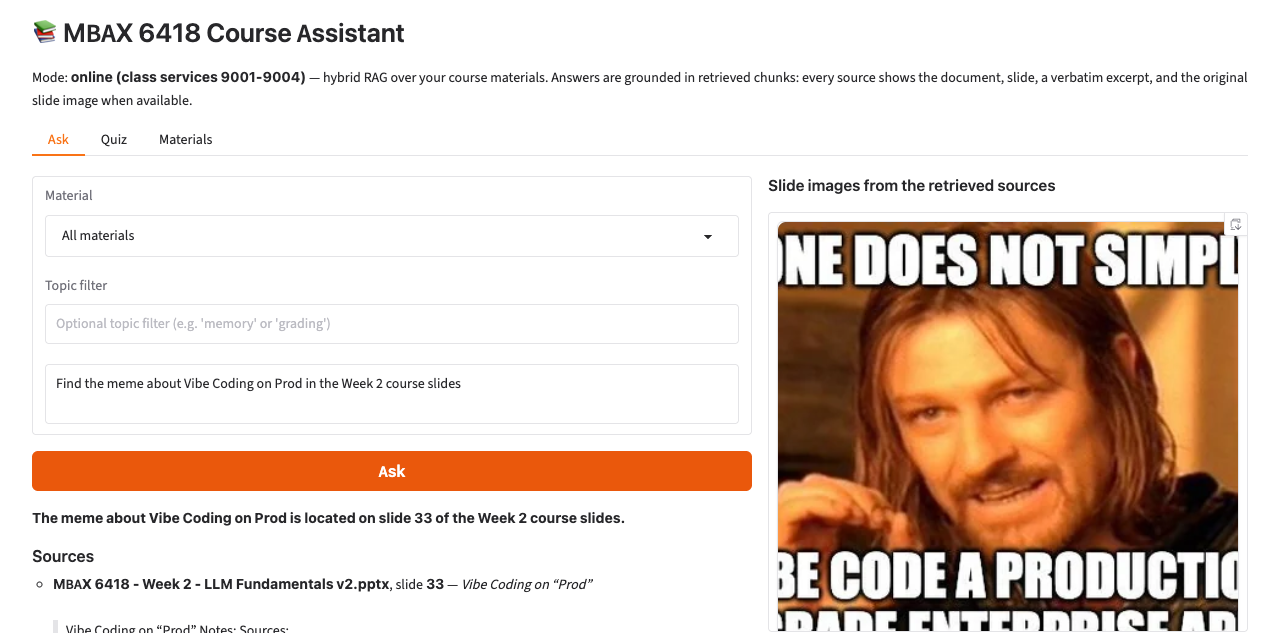
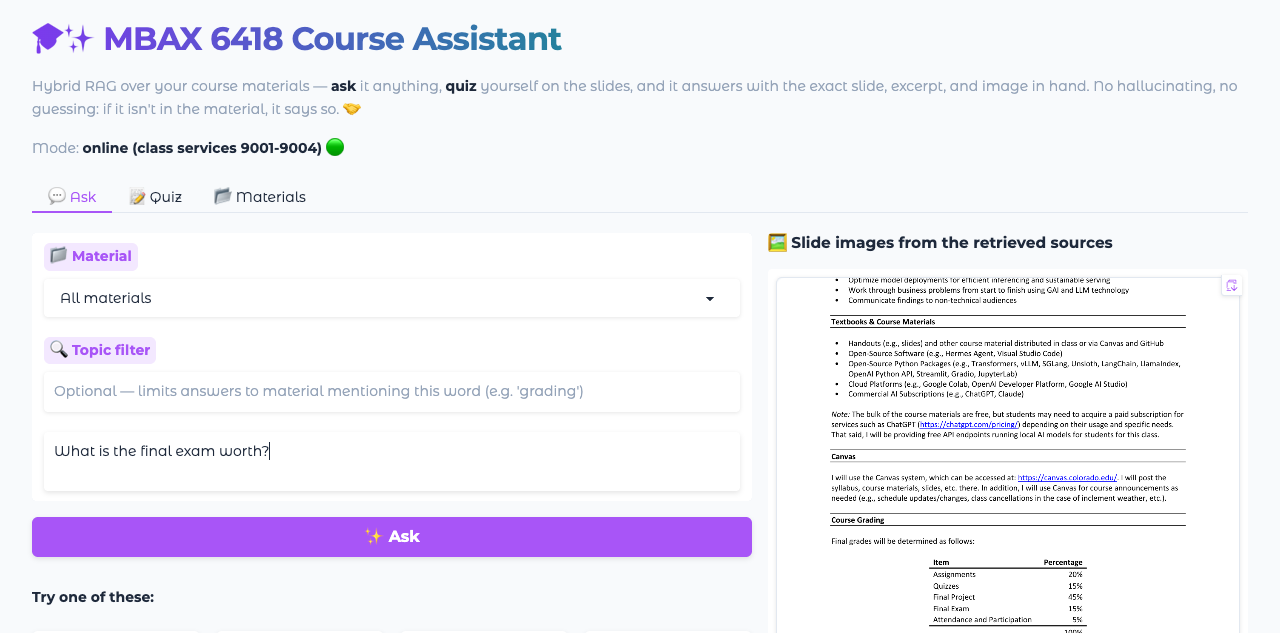
🎨✨ fun UI + robust quiz generation
- Themed app: purple/teal Soft theme, gradient hero, sample-question
  chips, playful tab copy, footer echoing the hybrid-RAG stack
- Quiz: fresh evidence window per retry, paraphrase-tolerant grounding
  (explanation-anchored), title/transition slides excluded from the
  pool, 4 attempts — All-materials quizzes now reliably hit the count
- Screenshots re-captured against the new look

diff --git a/app.py b/app.py
@@ -25,6 +25,62 @@ from course_assistant.service import ALL_SCOPE, CourseAssistant  # noqa: E402
 MAX_QUIZ = 5
 LETTERS = "ABCDEFGH"
 
+FUN_THEME = gr.themes.Soft(
+    primary_hue=gr.themes.colors.purple,
+    secondary_hue=gr.themes.colors.teal,
+    neutral_hue=gr.themes.colors.slate,
+    radius_size=gr.themes.sizes.radius_lg,
+)
+
+FUN_CSS = """
+/* hero title — gradient "LLM" treatment */
+#hero h1 {
+  font-size: 2rem !important;
+  font-weight: 800 !important;
+  letter-spacing: -0.02em;
+  background: linear-gradient(90deg, #7c3aed 0%, #0d9488 55%, #f59e0b 100%);
+  -webkit-background-clip: text;
+  background-clip: text;
+  color: transparent;
+  margin-bottom: 0.2rem;
+}
+#hero { padding: 0.1rem 0 0.6rem; }
+#hero p { color: var(--body-text-color-subdued); }
+/* sample-question chips */
+.chip-row { margin-top: 0.4rem; }
+.chip-row + footer { display: block !important; }
+#app-footer {
+  margin-top: 1.4rem; padding-top: 0.8rem;
+  border-top: 1px dashed var(--border-color-primary, #d1d5db);
+  color: var(--body-text-color-subdued);
+  font-size: 0.85rem;
+}
+"""
+
+
+def _sample_buttons(question) -> None:
+    """Clickable sample questions — fill the ask box with one tap."""
+    samples = [
+        ("🎯 Final exam worth?", "What is the final exam worth?"),
+        ("🧮 Grade breakdown", "How is my grade calculated?"),
+        ("🖼 Find the meme", "Where is the vibe-coding meme in the slides?"),
+        ("⏰ Late policy", "What happens if I submit an assignment late?"),
+    ]
+    with gr.Row(elem_classes=["chip-row"]):
+        for label, q in samples:
+            gr.Button(label, size="sm").click(lambda q=q: q, inputs=None, outputs=question)
+
+
+def _header_markdown(service) -> str:
+    mode_icon = "🟢" if "offline" not in service.mode else "🟡"
+    return (
+        "# 🎓✨ MBAX 6418 Course Assistant\n"
+        "Hybrid RAG over your course materials — **ask** it anything, **quiz** yourself "
+        "on the slides, and it answers with the exact slide, excerpt, and image in hand. "
+        "No hallucinating, no guessing: if it isn't in the material, it says so. 🤝\n\n"
+        f"Mode: **{service.mode}** {mode_icon}"
+    )
+
 
 def _friendly(exc: Exception) -> str:
     """Turn any exception into a short, key-free user message."""
@@ -158,51 +214,54 @@ def do_remove(service, name: str):
 def build_app(service: CourseAssistant | None = None) -> gr.Blocks:
     service = service or CourseAssistant()
 
-    with gr.Blocks(title="MBAX 6418 Course Assistant") as demo:
-        gr.Markdown(
-            f"# 📚 MBAX 6418 Course Assistant\n"
-            f"Mode: **{service.mode}** — hybrid RAG over your course materials. "
-            "Answers are grounded in retrieved chunks: every source shows the document, "
-            "slide, a verbatim excerpt, and the original slide image when available."
-        )
-        with gr.Tab("Ask"):
+    with gr.Blocks(title="MBAX 6418 Course Assistant 🎓") as demo:
+        with gr.Column(elem_id="hero"):
+            gr.Markdown(_header_markdown(service))
+        with gr.Tab("💬 Ask"):
             with gr.Row():
                 with gr.Column(scale=3):
-                    scope = gr.Dropdown(choices=scope_choices(service), value=ALL_SCOPE, label="Material")
-                    topic = gr.Textbox(placeholder="Optional — limits answers to material mentioning this word (e.g. 'grading')", label="Topic filter")
+                    scope = gr.Dropdown(choices=scope_choices(service), value=ALL_SCOPE, label="📁 Material")
+                    topic = gr.Textbox(placeholder="Optional — limits answers to material mentioning this word (e.g. 'grading')", label="🔍 Topic filter")
                     question = gr.Textbox(show_label=False, placeholder="Ask something about the course materials…", lines=2, elem_id="ask_question")
-                    ask_btn = gr.Button("Ask", variant="primary", elem_id="ask_btn")
+                    ask_btn = gr.Button("✨ Ask", variant="primary", elem_id="ask_btn")
+                    gr.Markdown("**Try one of these:**", elem_classes=["chip-row"])
+                    _sample_buttons(question)
                     answer_md = gr.Markdown()
                 with gr.Column(scale=2):
-                    gr.Markdown("#### Slide images from the retrieved sources")
+                    gr.Markdown("#### 🖼 Slide images from the retrieved sources")
                     gallery = gr.Gallery(columns=1, height=420, show_label=False)
 
-        with gr.Tab("Quiz"):
+        with gr.Tab("📝 Quiz"):
+            gr.Markdown(
+                "Practice like it's midterms. Questions come **straight from the deck** — "
+                "stand-alone concepts, answers never hidden in the question, each question "
+                "from a different slide. The key stays locked until you answer or reveal. 🔐"
+            )
             with gr.Row():
-                q_scope = gr.Dropdown(choices=scope_choices(service), value=ALL_SCOPE, label="Quiz material")
-                q_topic = gr.Textbox(placeholder="Optional topic filter", label="Topic filter")
-                q_n = gr.Slider(2, MAX_QUIZ, value=5, step=1, label="Number of questions")
-                gen_btn = gr.Button("Generate quiz", variant="primary", elem_id="gen_btn")
+                q_scope = gr.Dropdown(choices=scope_choices(service), value=ALL_SCOPE, label="📁 Quiz material")
+                q_topic = gr.Textbox(placeholder="Optional topic filter", label="🔍 Topic filter")
+                q_n = gr.Slider(2, MAX_QUIZ, value=5, step=1, label="🔢 Number of questions")
+                gen_btn = gr.Button("🎲 Generate quiz", variant="primary", elem_id="gen_btn")
             qid_state = gr.State("")
             quiz_md = gr.Markdown()
             radios = [gr.Radio(visible=False, label=f"Q{i + 1}") for i in range(MAX_QUIZ)]
             with gr.Row():
-                submit_btn = gr.Button("Submit answers", variant="primary", elem_id="submit_btn")
-                reveal_btn = gr.Button("Show solutions", elem_id="reveal_btn")
+                submit_btn = gr.Button("✅ Submit answers", variant="primary", elem_id="submit_btn")
+                reveal_btn = gr.Button("🔓 Show solutions", elem_id="reveal_btn")
             feedback_md = gr.Markdown()
 
-        with gr.Tab("Materials"):
+        with gr.Tab("📂 Materials"):
             gr.Markdown(
                 "Add or remove course materials. The same file twice is a no-op "
                 "(content-hash dedupe); removing a document also removes its "
                 "vectors and extracted images so later answers can't rely on it."
             )
             files = gr.File(file_count="multiple", label="Files (PDF, PPTX, DOCX, MD, TXT, HTML)")
-            add_btn = gr.Button("Load files", variant="primary")
+            add_btn = gr.Button("📥 Load files", variant="primary")
             status_md = gr.Markdown()
             with gr.Row():
                 remove_scope = gr.Dropdown(choices=scope_choices(service), label="Remove a document")
-                remove_btn = gr.Button("Remove")
+                remove_btn = gr.Button("🗑 Remove")
 
         ask_btn.click(functools.partial(do_ask, service), [question, scope, topic], [answer_md, gallery])
         gen_btn.click(functools.partial(do_generate, service), [q_scope, q_topic, q_n, qid_state], [qid_state, *radios, quiz_md, feedback_md])
@@ -211,9 +270,22 @@ def build_app(service: CourseAssistant | None = None) -> gr.Blocks:
         add_btn.click(functools.partial(do_add, service), [files], [status_md, scope, q_scope])
         remove_btn.click(functools.partial(do_remove, service), [remove_scope], [status_md, scope, q_scope])
 
+        gr.Markdown(
+            "Built for **MBAX 6418** · hybrid RAG: BM25 keyword × text embeddings × visual embeddings → "
+            "fusion → rerank → grounded answers. Feel free to poke it — every answer is verifiable, "
+            "every quiz question is from a real slide. 🚀",
+            elem_id="app-footer",
+        )
+
     return demo
 
 
 if __name__ == "__main__":
     demo = build_app()
-    demo.launch(server_name="127.0.0.1", server_port=7860, share=os.environ.get("SHARE") == "1")
+    demo.launch(
+        server_name="127.0.0.1",
+        server_port=7860,
+        share=os.environ.get("SHARE") == "1",
+        theme=FUN_THEME,
+        css=FUN_CSS,
+    )

diff --git a/src/course_assistant/quiz/generator.py b/src/course_assistant/quiz/generator.py
@@ -47,12 +47,18 @@ def _question_leaks_answer(qtext: str, key: str) -> bool:
 
 
 def _grounded_in(key: str, explanation: str, cited_text: str) -> bool:
-    """The correct option (or a verbatim explanation phrase) must appear in
-    the cited evidence — keeps questions strictly tied to the material."""
+    """The question is tied to the cited material when the correct option OR
+    the explanation overlaps it: paraphrased answers are fine as long as the
+    explanation restates the material (>=2 significant shared tokens or a
+    6-token verbatim phrase)."""
     if not cited_text:
         return True  # no verifiable source -> keep (validated elsewhere)
-    if _sig_tokens(key) & _sig_tokens(cited_text):
-        return True
+    cited_toks = _sig_tokens(cited_text)
+    if _sig_tokens(key) & cited_toks:
+        return True  # verbatim answer: strongest grounding
+    expl_toks = _sig_tokens(explanation)
+    if len(expl_toks & cited_toks) >= 2:
+        return True  # explanation restates the material
     expl = re.findall(r"[a-z0-9]{3,}", explanation.lower())
     cited = " ".join(re.findall(r"[a-z0-9]{3,}", cited_text.lower()))
     return any(" ".join(expl[i : i + 6]) in cited for i in range(len(expl) - 5))
@@ -178,21 +184,27 @@ class QuizGenerator:
         want = min(n or self.n, len(chunks))
         if not chunks or want < 1:
             return []
-        evidence_txt = "\n".join(
-            f"{i}. [{e.document} | slide {e.page}" + (f" | {e.section}" if e.section else "") + f"] {e.text[:500]}"
-            for i, e in enumerate(chunks[:want], 1)
-        )
         questions: list[Question] = []
-        for attempt in range(2):
+        for attempt in range(4):
+            # rotate a fresh window of slides per attempt so a bad draw
+            # doesn't get retried against the same evidence
+            start = 0
+            if len(chunks) > want:
+                start = (attempt * want) % (len(chunks) - want + 1)
+            window = chunks[start : start + want]
+            evidence_txt = "\n".join(
+                f"{i}. [{e.document} | slide {e.page}" + (f" | {e.section}" if e.section else "") + f"] {e.text[:700]}"
+                for i, e in enumerate(window, 1)
+            )
             prompt = QUIZ_PROMPT.format(n=want, evidence=evidence_txt)
             raw = self.client.chat(
                 messages=[{"role": "user", "content": prompt}],
-                temperature=0.0 if attempt == 0 else 0.2,
+                temperature=(0.0, 0.2, 0.4, 0.6)[attempt],
                 max_tokens=self.max_tokens,
                 json_mode=True,
             )
             extracted = _extract_questions(parse_json_payload(raw))
-            questions = validate_questions(extracted if extracted is not None else [], chunks[:want])
+            questions = validate_questions(extracted if extracted is not None else [], window)
             if len(questions) >= want:
                 break
         if len(questions) < min(2, want):

diff --git a/src/course_assistant/service.py b/src/course_assistant/service.py
@@ -197,14 +197,17 @@ class CourseAssistant:
                 )
             )
         # one representative chunk per slide — a deck quiz never covers the
-        # same page twice while other slides go unused
+        # same page twice; and skip text-poor title/transition slides, which
+        # only ever produce "which module is this?" trivia
         by_page: dict[tuple[str, int], Evidence] = {}
         for entries in by_doc.values():
             for e in entries:
+                if len(e.text.strip()) < 40:
+                    continue  # title/transition slides: no quiz content
                 by_page.setdefault((e.document, e.page), e)
         items = []
         for doc_id, chunks in by_doc.items():
-            reps = [e for e in chunks if e is by_page[(e.document, e.page)]]
+            reps = [e for e in chunks if by_page.get((e.document, e.page)) is e]
             if reps:
                 items.append((doc_id, reps))
         total = sum(len(v) for _, v in items)
@@ -214,6 +217,8 @@ class CourseAssistant:
         def _spread(chunks: list[Evidence], k: int) -> list[Evidence]:
             if k >= len(chunks):
                 return list(chunks)  # small doc: take everything
+            if k == 1:
+                return [chunks[len(chunks) // 2]]  # never a title slide
             step = len(chunks) / k
             return [chunks[int(j * step)] for j in range(k)]
 
@@ -276,7 +281,7 @@ class CourseAssistant:
 
     def generate_quiz(self, scope: str = ALL_SCOPE, topic: str = "", n: int = 5,
                       title: str = "") -> tuple[str, dict]:
-        chunks = self._scope_chunks(scope, n * 2)
+        chunks = self._scope_chunks(scope, n * 4)
         if not chunks:
             raise RuntimeError(
                 "No course materials are indexed yet — add documents in the "
@@ -286,7 +291,7 @@ class CourseAssistant:
             filtered = [c for c in chunks if topic.lower() in c.text.lower()]
             if filtered:
                 chunks = filtered
-        questions = self.quizgen.generate(chunks[: n * 2], n=n)
+        questions = self.quizgen.generate(chunks[: n * 4], n=n)
         quiz_id = self.sessions.create(title or "Generated quiz", questions)
         return quiz_id, self.sessions.get(quiz_id)
 

diff --git a/tests/test_service.py b/tests/test_service.py
@@ -208,11 +208,11 @@ def test_scope_chunks_never_repeats_a_slide_when_avoidable(tmp_path):
     # page 1 twice (like a long slide split into two chunks) + page 2 once
     chunks = [
         Evidence(doc_id="x" * 64, document="Week 2.pptx", page=1, section="A",
-                 text="First half of slide one content."),
+                 text="First half of slide one content with enough words to matter here."),
         Evidence(doc_id="x" * 64, document="Week 2.pptx", page=1, section="A",
-                 text="Second half of slide one content."),
+                 text="Second half of the same slide one content, still long enough."),
         Evidence(doc_id="x" * 64, document="Week 2.pptx", page=2, section="B",
-                 text="Slide two content."),
+                 text="Slide two content, deliberately longer than the title floor."),
     ]
     store.text_col.upsert(
         ids=["a", "b", "c"],

diff --git a/README.md b/README.md
@@ -14,7 +14,7 @@ original slide image.
 
 ## 🚀 Try the app
 
-▶ **Live demo:** https://c95c668c4830d73383.gradio.live
+▶ **Live demo:** https://7f7bb994ee8383df71.gradio.live
 *(temporary share link — up to ~1 week; recreate with `SHARE=1 python app.py`)*
 
 Run it locally in one command after installing (see [Running the app](#running-the-app)):
